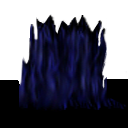
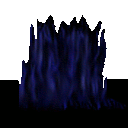
Don't have the AI go shooting the totem they just put their piece on.

Changed region(s): [[0.1562, 0.0938, 0.8438, 0.6875]]

diff --git a/src/java/com/threerings/bang/game/server/ai/AILogic.java b/src/java/com/threerings/bang/game/server/ai/AILogic.java
@@ -205,7 +205,8 @@ public abstract class AILogic
                 !attacks.contains(pieces[ii].x, pieces[ii].y)) {
                 continue;
             }
-            int tweight = evaluator.getWeight(unit, pieces[ii]);
+            int tweight = evaluator.getWeight(unit, pieces[ii], 
+                    pieces[ii].getDistance(unit.x, unit.y));
             if (tweight > bweight) {
                 best = pieces[ii];
                 bweight = tweight;
@@ -232,7 +233,7 @@ public abstract class AILogic
                 dist > unit.getMaxFireDistance()) {
                 continue;
             }
-            int tweight = evaluator.getWeight(unit, pieces[ii]);
+            int tweight = evaluator.getWeight(unit, pieces[ii], dist);
             if (tweight > bweight) {
                 best = pieces[ii];
                 bweight = tweight;
@@ -252,7 +253,7 @@ public abstract class AILogic
     protected interface TargetEvaluator
     {
         /** Returns the weight of the specified target for the given unit. */
-        public int getWeight (Unit unit, Piece target);
+        public int getWeight (Unit unit, Piece target, int dist);
     }
     
     /** The game manager. */

diff --git a/src/java/com/threerings/bang/game/server/ai/TotemLogic.java b/src/java/com/threerings/bang/game/server/ai/TotemLogic.java
@@ -167,7 +167,13 @@ public class TotemLogic extends AILogic
      * unit will do, and the amount of damage the target has already taken. */
     protected static final TargetEvaluator TARGET_EVALUATOR =
         new TargetEvaluator() {
-        public int getWeight (Unit unit, Piece target) {
+
+        public int getWeight (Unit unit, Piece target, int dist) {
+            // don't go an shoot the totem we just put our piece on
+            if ((target instanceof TotemBase) && TotemBonus.isHolding(unit) &&
+                    dist == 1) {
+                return -1;
+            }
             return ((target instanceof Unit) && 
                     TotemBonus.isHolding((Unit)target) ? 1000 : 0) +
                 unit.computeScaledDamage(target, 1f) * 100 + target.damage;

diff --git a/src/java/com/threerings/bang/game/server/ai/CattleRustlingLogic.java b/src/java/com/threerings/bang/game/server/ai/CattleRustlingLogic.java
@@ -327,7 +327,7 @@ public class CattleRustlingLogic extends AILogic
      * and the amount of damage the target has already taken. */
     protected static final TargetEvaluator TARGET_EVALUATOR =
         new TargetEvaluator() {
-        public int getWeight (Unit unit, Piece target) {
+        public int getWeight (Unit unit, Piece target, int dist) {
             UnitConfig.Rank rank = (target instanceof Unit ? 
                     ((Unit)target).getConfig().rank : null);
             return (rank == UnitConfig.Rank.BIGSHOT ? 1000 : 0) +

diff --git a/src/java/com/threerings/bang/game/server/ai/GoldLogic.java b/src/java/com/threerings/bang/game/server/ai/GoldLogic.java
@@ -185,7 +185,7 @@ public class GoldLogic extends AILogic
      * unit will do, and the amount of damage the target has already taken. */
     protected static final TargetEvaluator TARGET_EVALUATOR =
         new TargetEvaluator() {
-        public int getWeight (Unit unit, Piece target) {
+        public int getWeight (Unit unit, Piece target, int dist) {
             boolean nuggeted = (target instanceof Unit && 
                     NuggetEffect.NUGGET_BONUS.equals(((Unit)target).holding)); 
             return (nuggeted ?  1000 : 0) +
